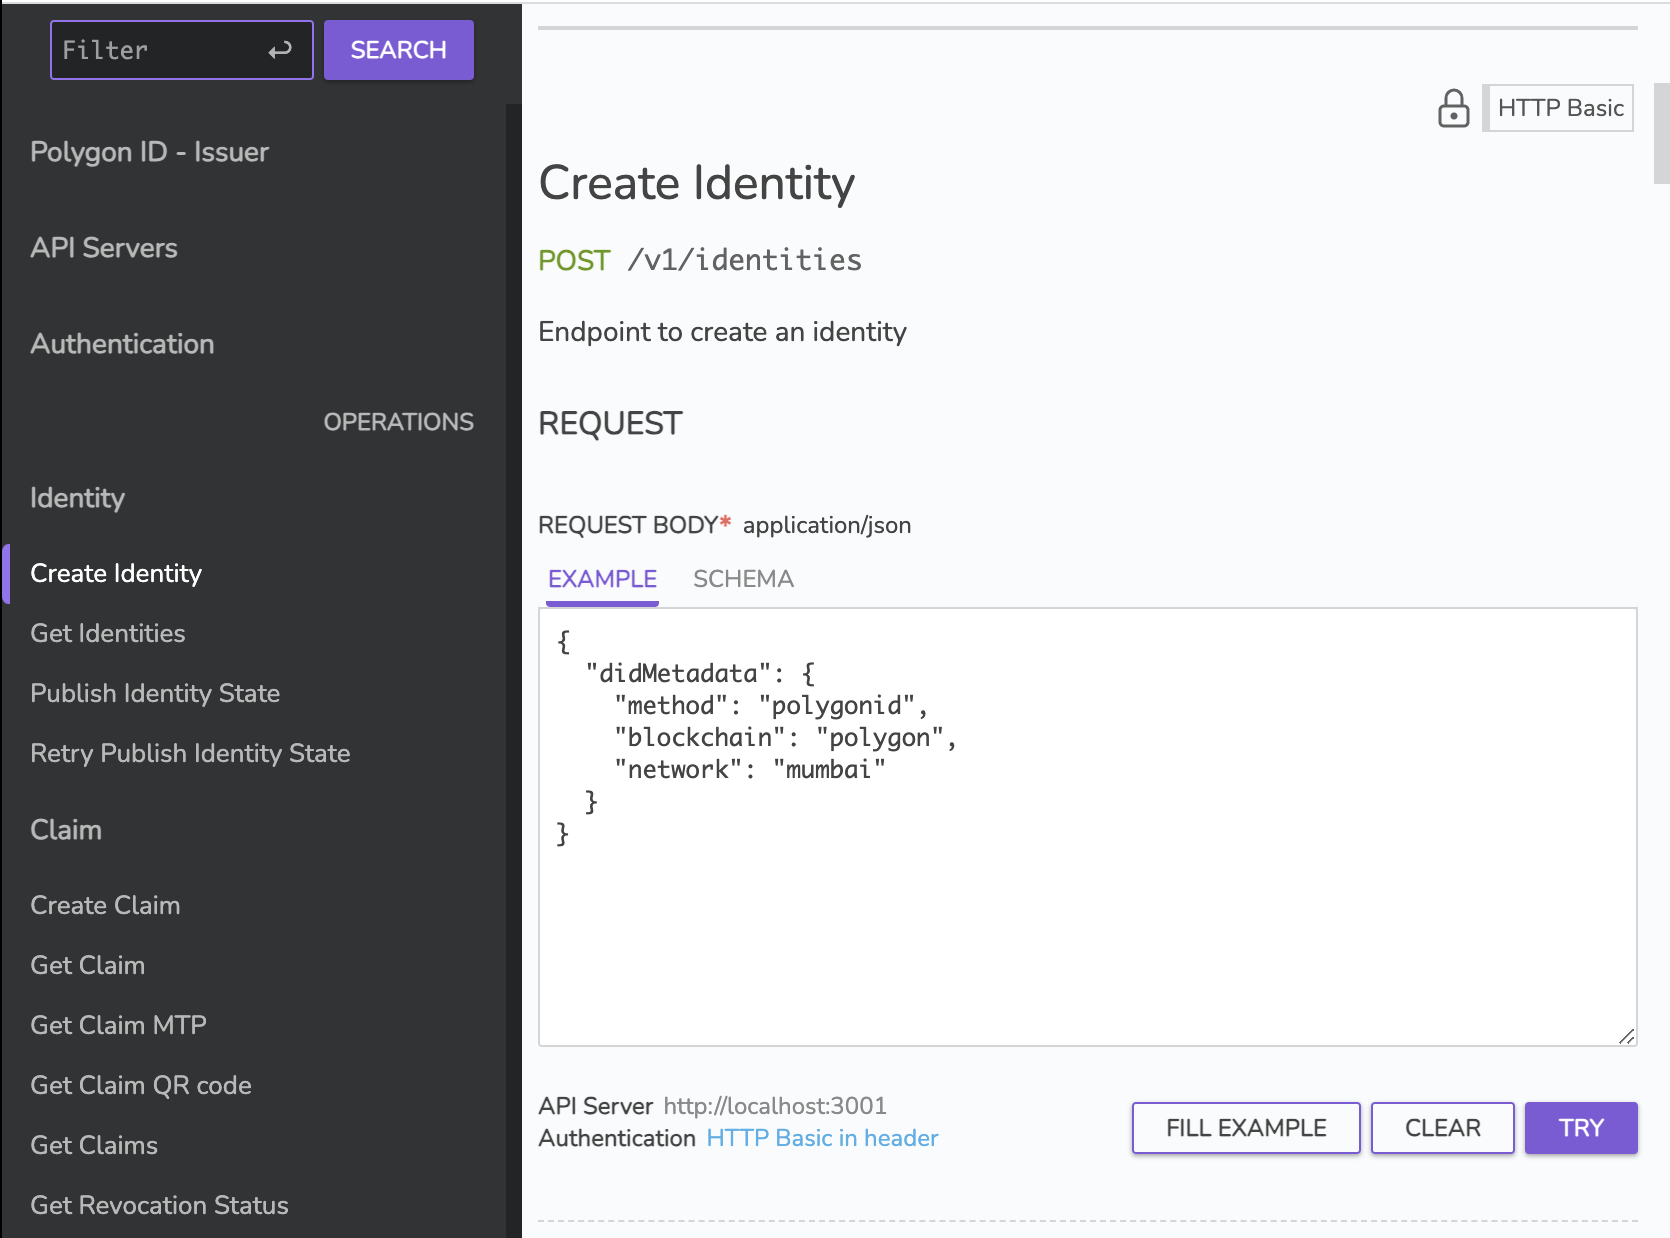
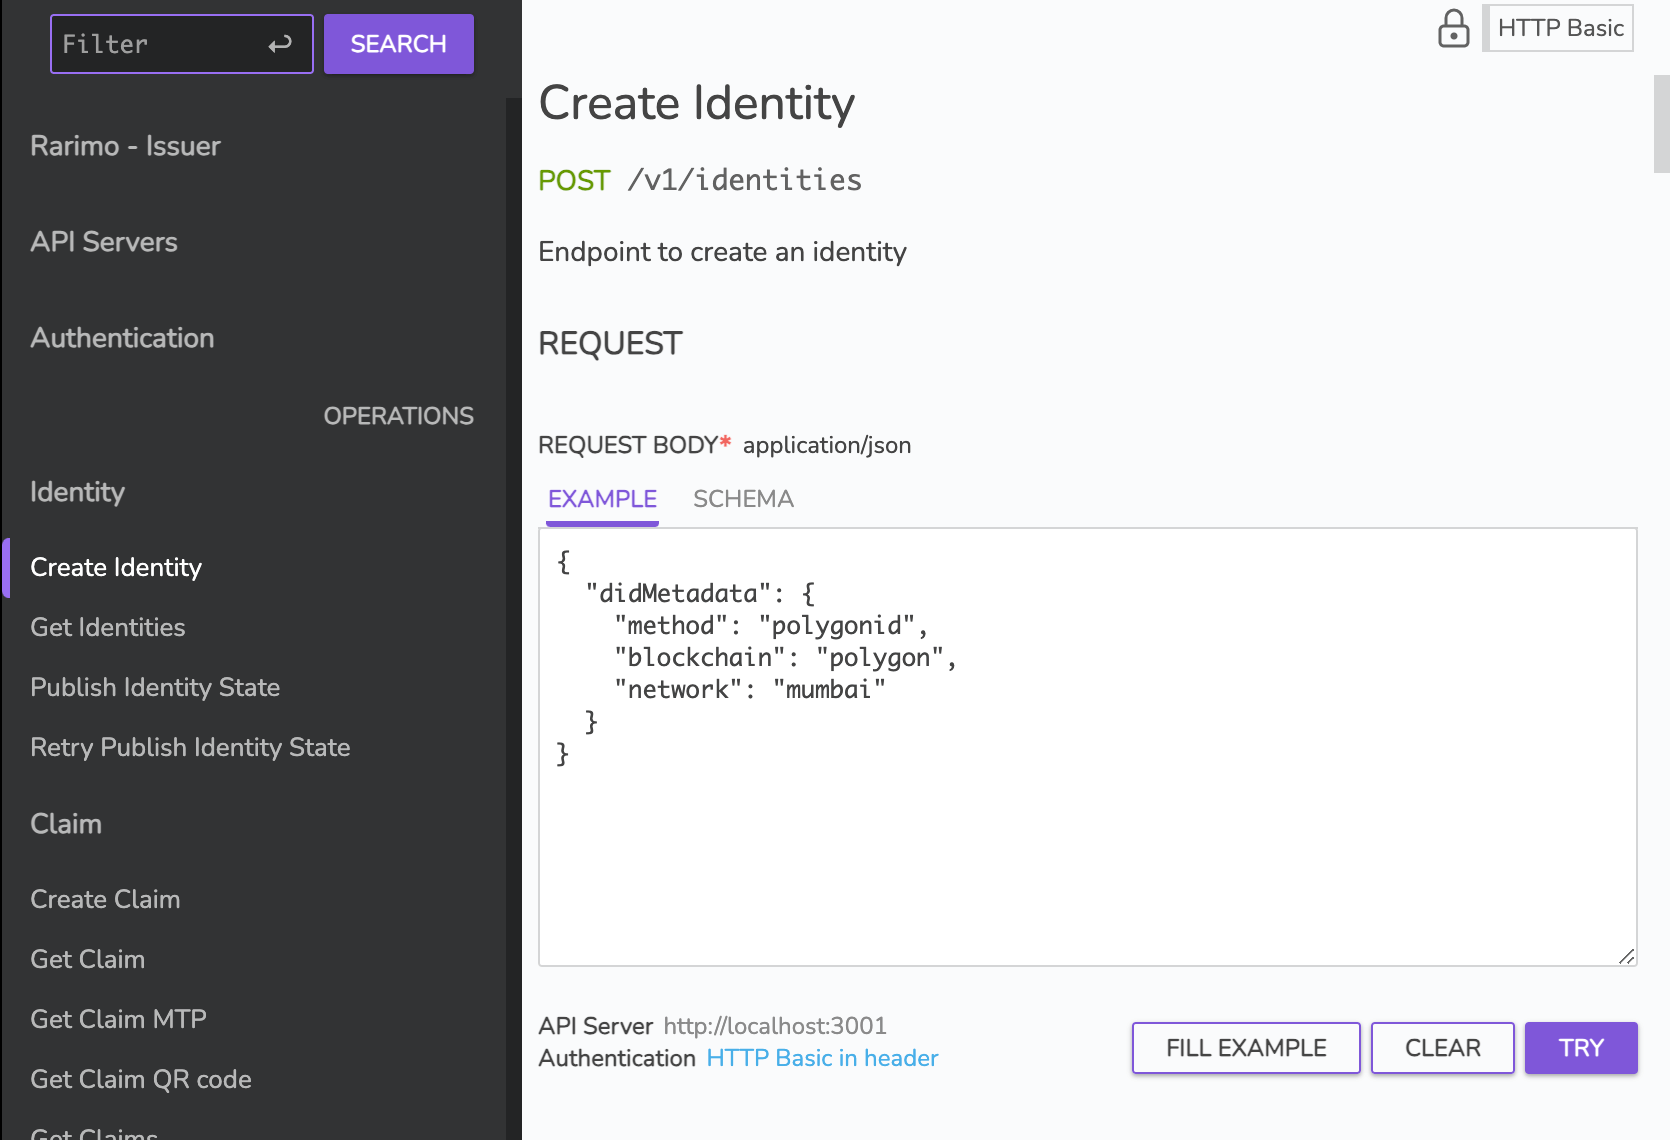
How-To-Issuer redesign

diff --git a/CHANGELOG.md b/CHANGELOG.md
@@ -7,6 +7,13 @@ and this project adheres to [Semantic Versioning](https://semver.org/spec/v2.0.0
 
 ## [Unreleased]
 
+## [1.5.1] - 16-11-2023
+
+### Changed
+
+- Issuer github link;
+- Updated screenshots in how-to/setup-issuer;
+
 ## [1.5.0] - 15-11-2023
 
 ### Added
@@ -159,7 +166,8 @@ and this project adheres to [Semantic Versioning](https://semver.org/spec/v2.0.0
 - `Not Found` page returning HTTP status `200`;
 - Broken logo link in the footer;
 
-[Unreleased]: https://gitlab.com/rarimo/docs/compare/v1.5.0...HEAD
+[Unreleased]: https://gitlab.com/rarimo/docs/compare/v1.5.1...HEAD
+[1.5.1]: https://gitlab.com/rarimo/docs/releases/tag/v1.5.0...v1.5.1
 [1.5.0]: https://gitlab.com/rarimo/docs/releases/tag/v1.4.3...v1.5.0
 [1.4.3]: https://gitlab.com/rarimo/docs/releases/tag/v1.4.2...v1.4.3
 [1.4.2]: https://gitlab.com/rarimo/docs/releases/tag/v1.4.1...v1.4.2
